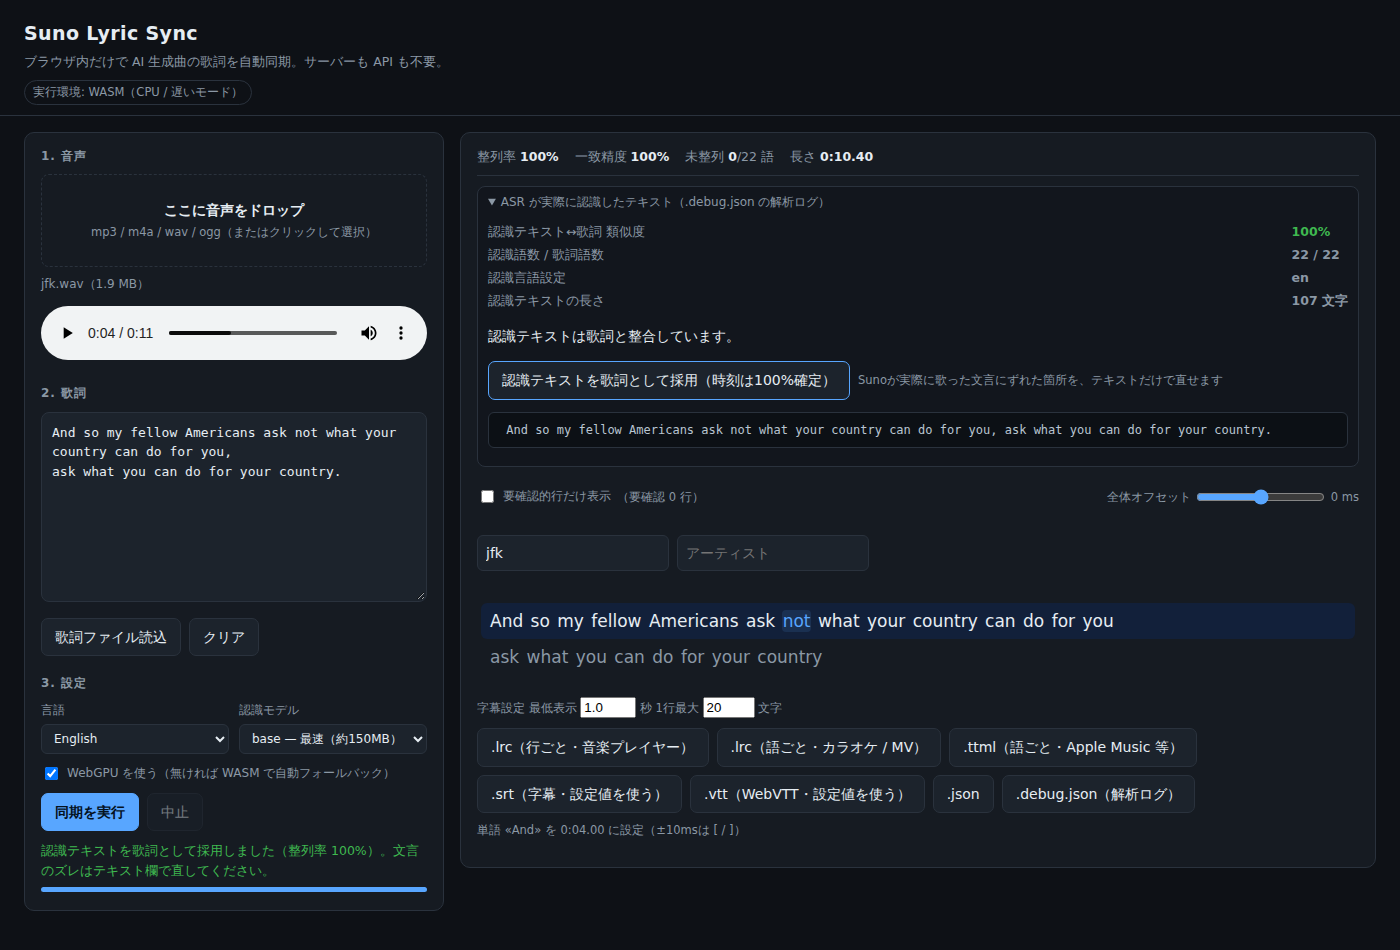
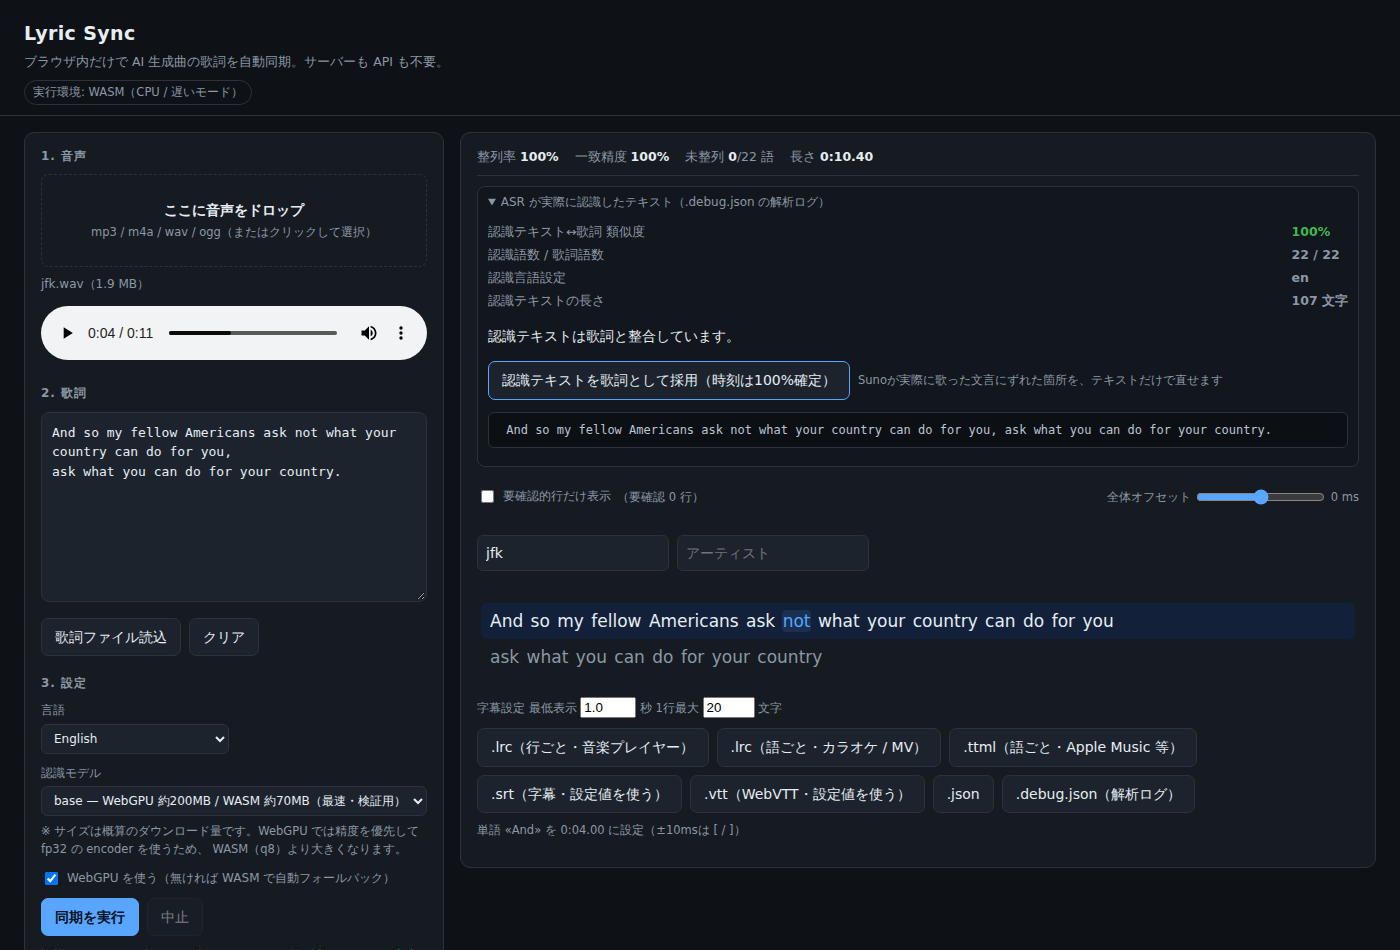
refactor: ツール名を Lyric Sync に統一し、モデルサイズの表示を実測値に修正
ツール名:
- 画面の見出し・タブタイトル・meta description・README / MANUAL / PUBLISHING
  の「Suno Lyric Sync」を「Lyric Sync」に変更
- 説明文の「Suno などの AI 生成音楽」表現はそのまま維持

モデルサイズの表示:
- モデルファイルの実測サイズに基づく概算に修正。従来の表記は q8 前提で、
  実際の WebGPU 実行（fp32 encoder）では turbo が約2.7GB 必要だった
- WebGPU / WASM の双方を明記し、「概算である」旨と fp32 を使う説明を添えた
- turbo は「大容量・動作未検証」と表示
- モデル選択欄が全幅になり選択肢の全文が読めるようにした

機能・音声認識アルゴリズムは変更なし。

Changed region(s): [[0.0307, 0.7326, 0.3071, 1.0], [0.0, 0.0305, 0.1536, 0.0611]]

diff --git a/index.html b/index.html
@@ -3,12 +3,16 @@
   <head>
     <meta charset="utf-8" />
     <meta name="viewport" content="width=device-width, initial-scale=1" />
-    <title>Suno Lyric Sync — 歌詞自動同期</title>
+    <title>Lyric Sync — 歌詞自動同期</title>
+    <meta
+      name="description"
+      content="Suno などの AI 生成音楽の歌詞を自動同期。ブラウザだけで完結（サーバー・APIキー不要）で、単語レベルの時刻を推定し SRT/LRC/TTML を出力する無料ツール。"
+    />
     <link rel="stylesheet" href="/src/style.css" />
   </head>
   <body>
     <header>
-      <h1>Suno Lyric Sync</h1>
+      <h1>Lyric Sync</h1>
       <p class="sub">ブラウザ内だけで AI 生成曲の歌詞を自動同期。サーバーも API も不要。</p>
       <span id="deviceBadge" class="badge">実行環境: 判定中…</span>
     </header>
@@ -45,16 +49,20 @@
               <option value="en">English</option>
             </select>
           </label>
-          <label>
+          <label class="wide">
             認識モデル
             <select id="model">
-              <option value="base">base — 最速（約150MB）</option>
-              <option value="small">small — 最速（約250MB）</option>
-              <option value="medium" selected>medium — 推奨（約800MB / 精度が一段上）</option>
-              <option value="turbo">large-v3-turbo — 最良（約700MB〜）</option>
+              <option value="base">base — WebGPU 約200MB / WASM 約70MB（最速・検証用）</option>
+              <option value="small">small — WebGPU 約560MB / WASM 約240MB（速さ重視）</option>
+              <option value="medium" selected>medium — WebGPU 約1.6GB / WASM 約940MB（推奨）</option>
+              <option value="turbo">large-v3-turbo — WebGPU 約2.7GB / WASM 約1.0GB（大容量・動作未検証）</option>
             </select>
           </label>
         </div>
+        <p class="small" style="margin: 6px 0 0">
+          ※ サイズは概算のダウンロード量です。WebGPU では精度を優先して fp32 の encoder を使うため、
+          WASM（q8）より大きくなります。
+        </p>
         <label class="check">
           <input type="checkbox" id="useWebGPU" checked />
           WebGPU を使う（無ければ WASM で自動フォールバック）

diff --git a/src/asr-core.js b/src/asr-core.js
@@ -6,10 +6,13 @@ import { normalize } from './text.js';
 env.allowLocalModels = false;
 
 export const MODELS = {
-  base: { id: 'onnx-community/whisper-base_timestamped', label: 'base（最速 / 約150MB）' },
-  small: { id: 'onnx-community/whisper-small_timestamped', label: 'small（推奨 / 約250MB）' },
-  medium: { id: 'onnx-community/whisper-medium_timestamped', label: 'medium（推奨 / 約800MB）' },
-  turbo: { id: 'onnx-community/whisper-large-v3-turbo_timestamped', label: 'large-v3-turbo（最良）' },
+  base: { id: 'onnx-community/whisper-base_timestamped', label: 'base（WebGPU 約200MB / WASM 約70MB）' },
+  small: { id: 'onnx-community/whisper-small_timestamped', label: 'small（WebGPU 約560MB / WASM 約240MB）' },
+  medium: { id: 'onnx-community/whisper-medium_timestamped', label: 'medium（推奨 / WebGPU 約1.6GB）' },
+  turbo: {
+    id: 'onnx-community/whisper-large-v3-turbo_timestamped',
+    label: 'large-v3-turbo（WebGPU 約2.7GB / 動作未検証）',
+  },
 };
 
 /** Whisper が受け付けるのは英語名。UI から来る ISO コードを変換する。 */

diff --git a/src/style.css b/src/style.css
@@ -153,6 +153,10 @@ label select {
   grid-template-columns: 1fr 1fr;
   gap: 10px;
 }
+/* モデル選択は選択肢が長い（サイズ表記を含む）ため全幅にする */
+.grid2 > .wide {
+  grid-column: 1 / -1;
+}
 .row {
   display: flex;
   gap: 8px;

diff --git a/README.md b/README.md
@@ -1,4 +1,4 @@
-# Suno Lyric Sync
+# Lyric Sync
 
 **ブラウザだけで完結する歌詞同期ツール。** AI 生成音楽（Suno など）の音声と歌詞テキストから
 各単語の再生時刻を推定し、MV 制作で使える字幕・歌詞ファイルを書き出します。
@@ -79,12 +79,15 @@ Whisper が聞き間違えた語は認識側で捨てられ、時刻だけが採
 
 ## 対応モデル
 
-| key | モデル | サイズ | 用途 |
-| --- | --- | --- | --- |
-| `base` | `onnx-community/whisper-base_timestamped` | ~150MB | 最速・検証用 |
-| `small` | `onnx-community/whisper-small_timestamped` | ~250MB | 速さ重視 |
-| `medium` | `onnx-community/whisper-medium_timestamped` | ~800MB | **既定（推奨）** |
-| `turbo` | `onnx-community/whisper-large-v3-turbo_timestamped` | ~700MB〜 | 最良 |
+| key | モデル | 概算DL（WebGPU） | 概算DL（WASM） | 用途 |
+| --- | --- | --- | --- | --- |
+| `base` | `onnx-community/whisper-base_timestamped` | 約200MB | 約70MB | 最速・検証用 |
+| `small` | `onnx-community/whisper-small_timestamped` | 約560MB | 約240MB | 速さ重視 |
+| `medium` | `onnx-community/whisper-medium_timestamped` | 約1.6GB | 約940MB | **既定（推奨）** |
+| `turbo` | `onnx-community/whisper-large-v3-turbo_timestamped` | 約2.7GB | 約1.0GB | 大容量・**動作未検証** |
+
+※ サイズはモデルファイルの実測値に基づく**概算**です。WebGPU では精度を優先して fp32 の
+encoder を読み込むため、WASM（q8）よりも大きくダウンロードされます。
 
 多言語対応（日 / 韓 / 英 / 中 など）。言語は自動判定より**明示指定のほうが正確**です
 （歌唱音声では自動判定が失敗しやすいため）。
@@ -94,7 +97,7 @@ Whisper が聞き間違えた語は認識側で捨てられ、時刻だけが採
 https://raika-rei-lab.github.io/lyric-sync/
 
 ブラウザだけで動作し、サーバーも API キーも不要です。初回のみモデルの
-ダウンロード（150〜800MB）に時間がかかります。
+ダウンロード（WebGPU で約200MB〜2.7GB）に時間がかかります。
 
 ローカルで Pages 相当の挙動を再現する場合:
 

diff --git a/MANUAL.md b/MANUAL.md
@@ -1,4 +1,4 @@
-# Suno Lyric Sync — MV 制作マニュアル
+# Lyric Sync — MV 制作マニュアル
 
 AI 生成音楽（Suno など）の歌詞を自動で時刻同期し、**MV 制作で使える各種ファイル**を出力するツールの使用説明書です。
 
@@ -280,7 +280,7 @@ line,start,word,prev,next,heard
 | 「値が不正です」 | SRT の時刻形式 | 本ツールの出力は `HH:MM:SS,mmm` 準拠 |
 | 認識テキストが全然違う | 言語設定 | 「言語」を歌っている言語（日本語/한국어/English）に変更して再実行 |
 | 整列率が低いまま | ASRの幻覚 | 「認識テキストを歌詞として採用」→ 文手を修正 |
-| メモリ不足エラー | 長尺 + GPU | モデルを `small` にするか、`medium` は 800MB 以上の GPU メモリ |
+| メモリ不足エラー | 長尺 + GPU | モデルを `small` にするか、`medium` は 1.6GB 以上の GPU メモリが必要 |
 
 ---
 

diff --git a/PUBLISHING.md b/PUBLISHING.md
@@ -1,6 +1,6 @@
 # GitHub 公開手順書
 
-このプロジェクト（**Suno Lyric Sync**）を GitHub に公開する手順です。
+このプロジェクト（**Lyric Sync**）を GitHub に公開する手順です。
 公開用ファイルはすべて作成済み・コミット済みなので、**この手順は push だけです**。
 
 ---
